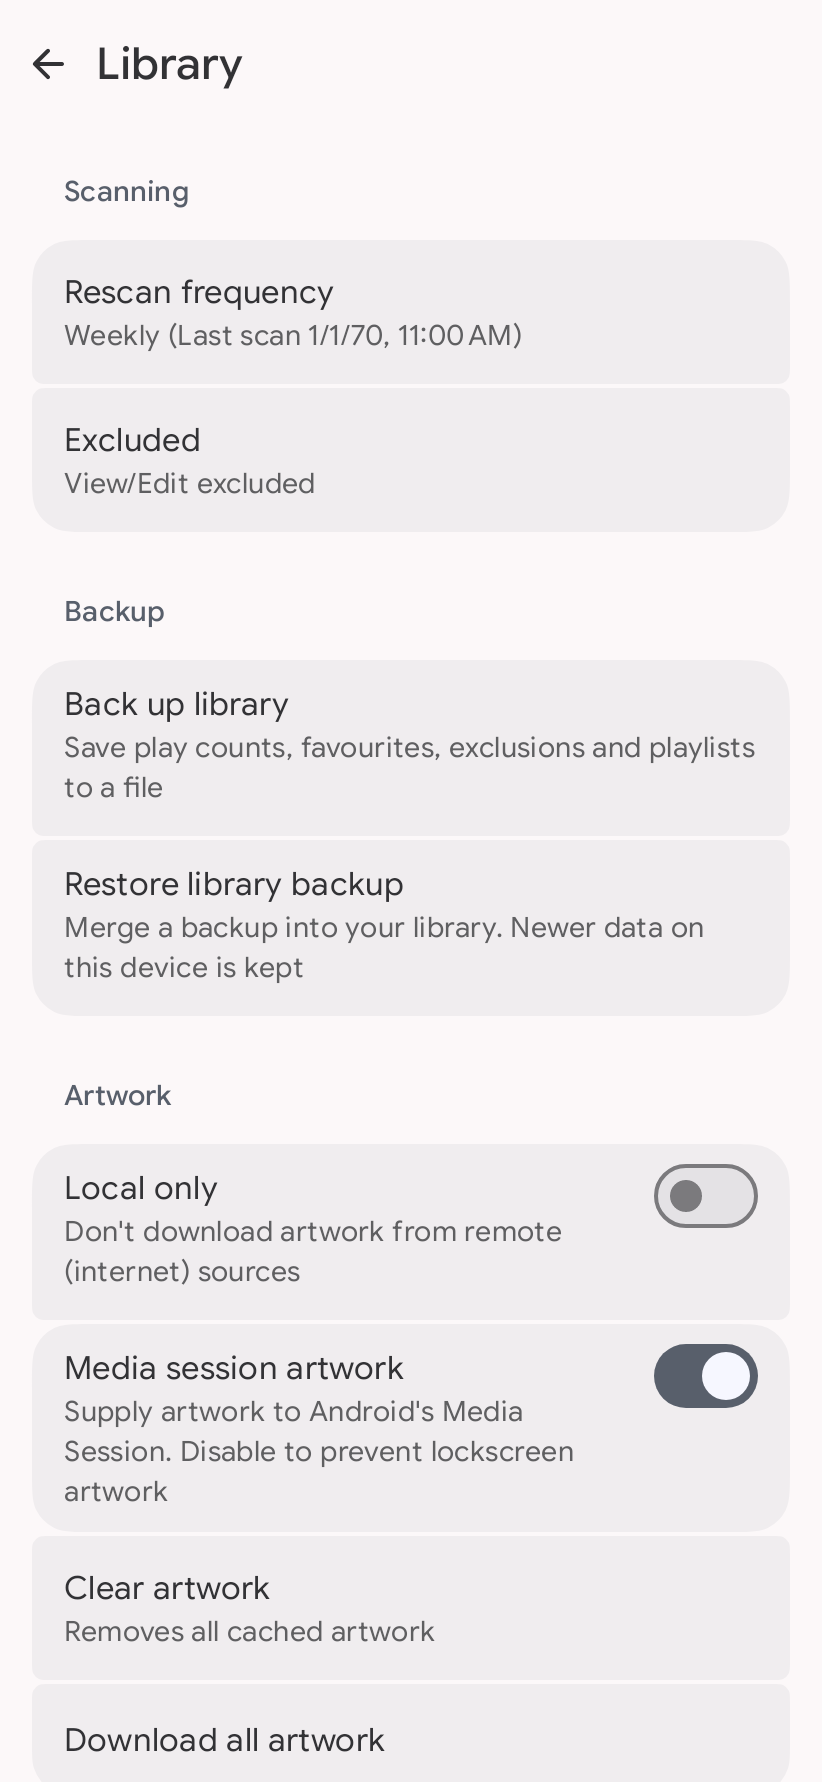
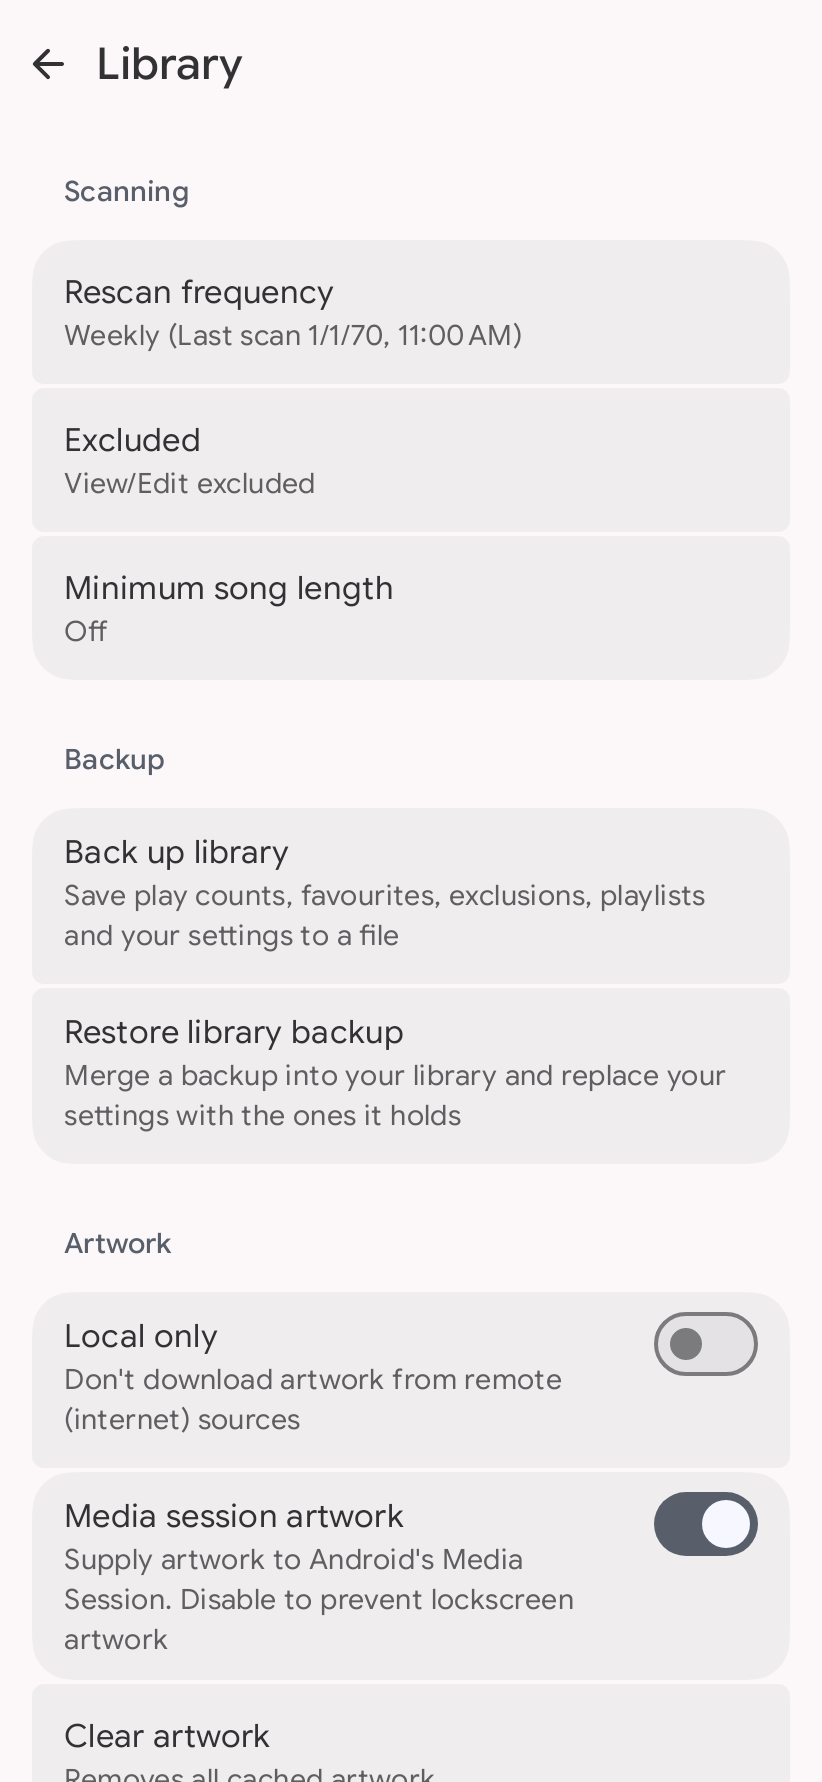
feat(library): hide songs under a minimum track length (#769)
Off, 10 s, 30 s or 60 s, applied in the song, album and artist repositories so
every list, search, shuffle and Android Auto agree. Playlists and id lookups
still resolve short songs. Also moves the backup manager and BackedUpSettings
out of ui/ to satisfy ui-module-imports without growing its baseline.

diff --git a/android/mediaprovider/local/src/androidHostTest/kotlin/com/simplecityapps/localmediaprovider/local/repository/LocalSongRepositoryTest.kt b/android/mediaprovider/local/src/androidHostTest/kotlin/com/simplecityapps/localmediaprovider/local/repository/LocalSongRepositoryTest.kt
@@ -11,7 +11,10 @@ import com.simplecityapps.localmediaprovider.local.data.room.database.trackingId
 import com.simplecityapps.localmediaprovider.local.data.room.entity.SONG_IDENTITY_QUERY
 import com.simplecityapps.localmediaprovider.local.data.room.entity.SongData
 import com.simplecityapps.mediaprovider.SongDiff
+import com.simplecityapps.mediaprovider.repository.albums.AlbumQuery
+import com.simplecityapps.mediaprovider.repository.artists.AlbumArtistQuery
 import com.simplecityapps.shuttle.model.MediaProviderType
+import com.simplecityapps.shuttle.model.MinTrackLength
 import com.simplecityapps.shuttle.model.Song
 import com.simplecityapps.shuttle.query.SongQuery
 import com.simplecityapps.shuttle.sorting.SongSortOrder
@@ -23,8 +26,11 @@ import java.util.concurrent.Executor
 import kotlin.time.Clock
 import kotlin.time.Duration.Companion.days
 import kotlin.time.Instant
+import kotlinx.coroutines.flow.MutableStateFlow
 import kotlinx.coroutines.flow.filterNotNull
 import kotlinx.coroutines.flow.first
+import kotlinx.coroutines.flow.map
+import kotlinx.coroutines.flow.onEach
 import kotlinx.coroutines.flow.toList
 import kotlinx.coroutines.launch
 import kotlinx.coroutines.test.UnconfinedTestDispatcher
@@ -296,14 +302,67 @@ class LocalSongRepositoryTest {
         return database.songDataDao().get().map { songData -> songData.toSong() }.sortedBy(Song::id)
     }
 
+    @Test
+    fun `a minimum track length hides shorter songs from queries and keeps one exactly that long`() = runTest {
+        val minimum = MutableStateFlow(MinTrackLength.ThirtySeconds)
+        val repository = LocalSongRepository(backgroundScope, database.songDataDao(), database.libraryAlbumIndex(), minimum)
+        database.songDataDao().insert(listOf(songData("Short", duration = 29_999), songData("Exact", duration = 30_000), songData("Long", duration = 200_000), songData("Unknown", duration = 0)))
+
+        repository.loadSongs(SongQuery.All()).map(Song::name) shouldContainExactlyInAnyOrder listOf("Exact", "Long", "Unknown")
+        repository.getSongs(SongQuery.All()).filterNotNull().first().map(Song::name) shouldContainExactlyInAnyOrder listOf("Exact", "Long", "Unknown")
+        repository.loadSongs(SongQuery.Search("Short")) shouldBe emptyList()
+    }
+
+    @Test
+    fun `changing the minimum track length re-emits the library`() = runTest {
+        val minimum = MutableStateFlow(MinTrackLength.Off)
+        val repository = LocalSongRepository(backgroundScope, database.songDataDao(), database.libraryAlbumIndex(), minimum)
+        database.songDataDao().insert(listOf(songData("Short", duration = 5_000), songData("Long", duration = 200_000)))
+        val seen = mutableListOf<List<String?>>()
+
+        val afterChange = repository.getSongs(SongQuery.All())
+            .filterNotNull()
+            .map { songs -> songs.map(Song::name) }
+            .onEach { names ->
+                seen.add(names)
+                minimum.value = MinTrackLength.TenSeconds
+            }
+            .first { names -> "Short" !in names }
+
+        seen.first() shouldContainExactlyInAnyOrder listOf("Short", "Long")
+        afterChange shouldBe listOf("Long")
+    }
+
+    @Test
+    fun `songs asked for by id are kept however short, so playlists and the queue still hold them`() = runTest {
+        val repository = LocalSongRepository(backgroundScope, database.songDataDao(), database.libraryAlbumIndex(), MutableStateFlow(MinTrackLength.SixtySeconds))
+        database.songDataDao().insert(listOf(songData("Short", duration = 5_000)))
+        val short = database.songDataDao().get().single().toSong()
+
+        repository.loadSongs(SongQuery.SongIds(listOf(short.id))).map(Song::name) shouldBe listOf("Short")
+        repository.getSongs(SongQuery.SongIds(listOf(short.id))).first().orEmpty().map(Song::name) shouldBe listOf("Short")
+    }
+
+    @Test
+    fun `albums and album artists are built from the songs that pass the minimum`() = runTest {
+        val minimum = MutableStateFlow(MinTrackLength.SixtySeconds)
+        val albums = LocalAlbumRepository(backgroundScope, database.songDataDao(), minimum)
+        val artists = LocalAlbumArtistRepository(backgroundScope, database.songDataDao(), minimum)
+        database.songDataDao().insert(listOf(songData("Ringtone", "Voice", duration = 4_000), songData("Song", "Band", duration = 240_000)))
+
+        albums.getAlbums(AlbumQuery.All()).first().map { album -> album.albumArtist } shouldBe listOf("Band")
+        artists.getAlbumArtists(AlbumArtistQuery.All()).first().map { artist -> artist.name } shouldBe listOf("Band")
+    }
+
     private fun songData(
         name: String,
-        artist: String = "Artist"
+        artist: String = "Artist",
+        duration: Int = 180_000
     ) = SongData(
         name = name,
         track = 1,
         disc = 1,
-        duration = 180_000,
+        duration = duration,
         year = null,
         genres = emptyList(),
         path = "/music/$name.mp3",

diff --git a/android/mediaprovider/local/src/commonMain/kotlin/com/simplecityapps/localmediaprovider/local/repository/LocalSongRepository.kt b/android/mediaprovider/local/src/commonMain/kotlin/com/simplecityapps/localmediaprovider/local/repository/LocalSongRepository.kt
@@ -10,6 +10,7 @@ import com.simplecityapps.mediaprovider.repository.songs.comparator
 import com.simplecityapps.shuttle.logging.Logger
 import com.simplecityapps.shuttle.model.AlbumIndex
 import com.simplecityapps.shuttle.model.MediaProviderType
+import com.simplecityapps.shuttle.model.MinTrackLength
 import com.simplecityapps.shuttle.model.Song
 import com.simplecityapps.shuttle.model.withAlbumIdentities
 import com.simplecityapps.shuttle.query.SongQuery
@@ -24,6 +25,7 @@ import kotlinx.coroutines.flow.StateFlow
 import kotlinx.coroutines.flow.asSharedFlow
 import kotlinx.coroutines.flow.combine
 import kotlinx.coroutines.flow.distinctUntilChanged
+import kotlinx.coroutines.flow.first
 import kotlinx.coroutines.flow.flowOf
 import kotlinx.coroutines.flow.flowOn
 import kotlinx.coroutines.flow.map
@@ -33,7 +35,9 @@ import kotlinx.coroutines.withContext
 class LocalSongRepository(
     val scope: CoroutineScope,
     private val songDataDao: SongDataDao,
-    private val albumIndex: LibraryAlbumIndex
+    private val albumIndex: LibraryAlbumIndex,
+    /** Songs shorter than this are left out of every query but a lookup by id; a change re-emits [getSongs]. */
+    private val minTrackLength: Flow<MinTrackLength> = flowOf(MinTrackLength.Off)
 ) : SongRepository {
     private val songsRelay: StateFlow<List<Song>?> by lazy {
         songDataDao
@@ -50,7 +54,8 @@ class LocalSongRepository(
     /**
      * Songs by id (a restored queue, a song a controller names) are read by id, so the cost is bounded by how many are
      * asked for rather than by the library, and come in no particular order, as their callers look them up by id;
-     * every other query filters the whole library, in the query's sort order.
+     * every other query filters the whole library, in the query's sort order, and leaves out songs under the
+     * [minTrackLength] (a lookup by id is for songs something already holds, a playlist's or the queue's, so it keeps them).
      */
     override fun getSongs(query: SongQuery): Flow<List<Song>?> {
         val songs: Flow<List<Song>?> =
@@ -59,7 +64,7 @@ class LocalSongRepository(
             } else if (query is SongQuery.SongIds) {
                 combine(songDataDao.getByIds(query.songIds), albumIndex.updates) { found, index -> found.withAlbumIdentities(index.identities) }.flowOn(Dispatchers.IO)
             } else {
-                songsRelay.map { songs -> songs?.filter(query.predicate)?.sortedWith(query.sortOrder.comparator) }
+                combine(songsRelay, minTrackLength) { songs, min -> songs?.filter(min::keeps)?.filter(query.predicate)?.sortedWith(query.sortOrder.comparator) }
             }
         return songs.map { result -> result?.matching(query) }
     }
@@ -72,8 +77,10 @@ class LocalSongRepository(
     override suspend fun loadSongs(query: SongQuery): List<Song> = withContext(Dispatchers.IO) {
         val index = albumIndex.albumIndex()
         val songs = index.songIdsFor(query)?.let { ids -> songDataDao.loadByIds(ids) } ?: songDataDao.get().map { songData -> songData.toSong() }
+        val min = if (query is SongQuery.SongIds) MinTrackLength.Off else minTrackLength.first()
         songs
             .withAlbumIdentities(index.identities)
+            .filter(min::keeps)
             .filter(query.predicate)
             .sortedWith(query.sortOrder.comparator)
             .matching(query)

diff --git a/android/mediaprovider/local/src/commonMain/kotlin/com/simplecityapps/localmediaprovider/local/di/LibraryModule.kt b/android/mediaprovider/local/src/commonMain/kotlin/com/simplecityapps/localmediaprovider/local/di/LibraryModule.kt
@@ -25,6 +25,7 @@ import com.simplecityapps.mediaprovider.repository.playlists.PlaylistRepository
 import com.simplecityapps.mediaprovider.repository.smartplaylists.SmartPlaylistRepository
 import com.simplecityapps.mediaprovider.repository.songs.SongRepository
 import com.simplecityapps.mediaprovider.repository.suggestions.SuggestionsRepository
+import com.simplecityapps.mediaprovider.settings.LibrarySettings
 import com.simplecityapps.shuttle.di.AppCoroutineScope
 import com.simplecityapps.shuttle.model.AlbumIndexProvider
 import com.simplecityapps.shuttle.persistence.GeneralPreferenceManager
@@ -69,8 +70,9 @@ abstract class LibraryModule {
         fun provideSongRepository(
             database: MediaDatabase,
             @AppCoroutineScope appCoroutineScope: CoroutineScope,
-            albumIndex: LibraryAlbumIndex
-        ): SongRepository = LocalSongRepository(appCoroutineScope, database.songDataDao(), albumIndex)
+            albumIndex: LibraryAlbumIndex,
+            librarySettings: LibrarySettings
+        ): SongRepository = LocalSongRepository(appCoroutineScope, database.songDataDao(), albumIndex, librarySettings.minTrackLength.flow)
 
         @Provides
         @SingleIn(AppScope::class)
@@ -89,15 +91,17 @@ abstract class LibraryModule {
         @SingleIn(AppScope::class)
         fun provideAlbumRepository(
             database: MediaDatabase,
-            @AppCoroutineScope appCoroutineScope: CoroutineScope
-        ): AlbumRepository = LocalAlbumRepository(appCoroutineScope, database.songDataDao())
+            @AppCoroutineScope appCoroutineScope: CoroutineScope,
+            librarySettings: LibrarySettings
+        ): AlbumRepository = LocalAlbumRepository(appCoroutineScope, database.songDataDao(), librarySettings.minTrackLength.flow)
 
         @Provides
         @SingleIn(AppScope::class)
         fun provideAlbumArtistRepository(
             database: MediaDatabase,
-            @AppCoroutineScope appCoroutineScope: CoroutineScope
-        ): AlbumArtistRepository = LocalAlbumArtistRepository(appCoroutineScope, database.songDataDao())
+            @AppCoroutineScope appCoroutineScope: CoroutineScope,
+            librarySettings: LibrarySettings
+        ): AlbumArtistRepository = LocalAlbumArtistRepository(appCoroutineScope, database.songDataDao(), librarySettings.minTrackLength.flow)
 
         @Provides
         @SingleIn(AppScope::class)

diff --git a/android/app/src/main/java/com/simplecityapps/shuttle/ui/screens/settings/model/AndroidSettingsCatalog.kt b/android/app/src/main/java/com/simplecityapps/shuttle/ui/screens/settings/model/AndroidSettingsCatalog.kt
@@ -8,6 +8,7 @@ import com.simplecityapps.playback.dsp.replaygain.ReplayGainMode
 import com.simplecityapps.playback.settings.PlaybackSettings
 import com.simplecityapps.shuttle.BuildConfig
 import com.simplecityapps.shuttle.downloads.DownloadSettings
+import com.simplecityapps.shuttle.model.MinTrackLength
 import com.simplecityapps.shuttle.settings.Accent
 import com.simplecityapps.shuttle.settings.AppearanceSettings
 import com.simplecityapps.shuttle.settings.ArtworkSettings
@@ -214,6 +215,17 @@ object AndroidSettingsCatalog : SettingsCatalog {
                         title = StringKey.PREF_EXCLUDE_TITLE,
                         summary = StringKey.PREF_EXCLUDE_SUMMARY,
                         key = "pref_excluded"
+                    ),
+                    SettingItem.Choice(
+                        setting = LibrarySettings.MinTrackLength,
+                        title = StringKey.PREF_MIN_TRACK_LENGTH_TITLE,
+                        summary = StringKey.PREF_MIN_TRACK_LENGTH_SUMMARY,
+                        options = listOf(
+                            ChoiceOption(MinTrackLength.Off, StringKey.PREF_MIN_TRACK_LENGTH_OFF),
+                            ChoiceOption(MinTrackLength.TenSeconds, StringKey.PREF_MIN_TRACK_LENGTH_10_SECONDS),
+                            ChoiceOption(MinTrackLength.ThirtySeconds, StringKey.PREF_MIN_TRACK_LENGTH_30_SECONDS),
+                            ChoiceOption(MinTrackLength.SixtySeconds, StringKey.PREF_MIN_TRACK_LENGTH_60_SECONDS)
+                        )
                     )
                 )
             ),

diff --git a/android/mediaprovider/local/src/commonMain/kotlin/com/simplecityapps/localmediaprovider/local/repository/LocalAlbumArtistRepository.kt b/android/mediaprovider/local/src/commonMain/kotlin/com/simplecityapps/localmediaprovider/local/repository/LocalAlbumArtistRepository.kt
@@ -5,21 +5,27 @@ import com.simplecityapps.mediaprovider.repository.artists.AlbumArtistQuery
 import com.simplecityapps.mediaprovider.repository.artists.AlbumArtistRepository
 import com.simplecityapps.mediaprovider.repository.artists.comparator
 import com.simplecityapps.shuttle.model.AlbumArtist
+import com.simplecityapps.shuttle.model.MinTrackLength
 import kotlinx.coroutines.CoroutineScope
 import kotlinx.coroutines.Dispatchers
 import kotlinx.coroutines.IO
 import kotlinx.coroutines.flow.Flow
 import kotlinx.coroutines.flow.SharingStarted
 import kotlinx.coroutines.flow.StateFlow
+import kotlinx.coroutines.flow.combine
 import kotlinx.coroutines.flow.filterNotNull
+import kotlinx.coroutines.flow.flowOf
 import kotlinx.coroutines.flow.flowOn
 import kotlinx.coroutines.flow.map
 import kotlinx.coroutines.flow.stateIn
 
-class LocalAlbumArtistRepository(val scope: CoroutineScope, private val songDataDao: SongDataDao) : AlbumArtistRepository {
+class LocalAlbumArtistRepository(
+    val scope: CoroutineScope,
+    private val songDataDao: SongDataDao,
+    private val minTrackLength: Flow<MinTrackLength> = flowOf(MinTrackLength.Off)
+) : AlbumArtistRepository {
     private val albumArtistsRelay: StateFlow<List<AlbumArtist>?> by lazy {
-        songDataDao
-            .getAll()
+        combine(songDataDao.getAll(), minTrackLength) { songs, min -> songs.filter(min::keeps) }
             .map { songs -> songs.toArtists() }
             .flowOn(Dispatchers.IO)
             .stateIn(scope, SharingStarted.Lazily, null)

diff --git a/android/mediaprovider/local/src/commonMain/kotlin/com/simplecityapps/localmediaprovider/local/repository/LocalAlbumRepository.kt b/android/mediaprovider/local/src/commonMain/kotlin/com/simplecityapps/localmediaprovider/local/repository/LocalAlbumRepository.kt
@@ -5,6 +5,7 @@ import com.simplecityapps.mediaprovider.repository.albums.AlbumQuery
 import com.simplecityapps.mediaprovider.repository.albums.AlbumRepository
 import com.simplecityapps.mediaprovider.repository.albums.comparator
 import com.simplecityapps.shuttle.model.Album
+import com.simplecityapps.shuttle.model.MinTrackLength
 import kotlin.random.Random
 import kotlinx.coroutines.CoroutineScope
 import kotlinx.coroutines.Dispatchers
@@ -12,20 +13,21 @@ import kotlinx.coroutines.IO
 import kotlinx.coroutines.flow.Flow
 import kotlinx.coroutines.flow.SharingStarted
 import kotlinx.coroutines.flow.StateFlow
+import kotlinx.coroutines.flow.combine
 import kotlinx.coroutines.flow.distinctUntilChanged
 import kotlinx.coroutines.flow.filterNotNull
+import kotlinx.coroutines.flow.flowOf
 import kotlinx.coroutines.flow.flowOn
 import kotlinx.coroutines.flow.map
 import kotlinx.coroutines.flow.stateIn
 
 class LocalAlbumRepository(
     private val scope: CoroutineScope,
-    private val songDataDao: SongDataDao
+    private val songDataDao: SongDataDao,
+    private val minTrackLength: Flow<MinTrackLength> = flowOf(MinTrackLength.Off)
 ) : AlbumRepository {
     private val albumsRelay: StateFlow<List<Album>?> by lazy {
-        songDataDao
-            .getAll()
-            .distinctUntilChanged()
+        combine(songDataDao.getAll().distinctUntilChanged(), minTrackLength) { songs, min -> songs.filter(min::keeps) }
             .map { songs ->
                 songs
                     .groupBy { it.albumGroupKey }

diff --git a/android/mediaprovider/core/src/commonMain/kotlin/com/simplecityapps/mediaprovider/settings/LibrarySettings.kt b/android/mediaprovider/core/src/commonMain/kotlin/com/simplecityapps/mediaprovider/settings/LibrarySettings.kt
@@ -1,6 +1,7 @@
 package com.simplecityapps.mediaprovider.settings
 
 import com.simplecityapps.mediaprovider.worker.ImportFrequency
+import com.simplecityapps.shuttle.model.MinTrackLength
 import com.simplecityapps.shuttle.settings.Setting
 import com.simplecityapps.shuttle.settings.SettingsStore
 import dev.zacsweers.metro.AppScope
@@ -14,6 +15,7 @@ class LibrarySettings @Inject constructor(
 ) {
     val rescanFrequency = store.preference(RescanFrequency)
     val reportPlaybackToServer = store.preference(ReportPlaybackToServer)
+    val minTrackLength = store.preference(MinTrackLength)
 
     companion object {
         /** Stored as [ImportFrequency.value] in a string, as the ListPreference wrote it. */
@@ -22,6 +24,14 @@ class LibrarySettings @Inject constructor(
             default = ImportFrequency.Never,
             decode = { value -> ImportFrequency.entries.firstOrNull { it.value.toString() == value } },
             encode = { frequency -> frequency.value.toString() }
+        )
+
+        /** Stored by name, so lengths can be added anywhere in the list. */
+        val MinTrackLength = Setting.string(
+            key = "pref_min_track_length",
+            default = com.simplecityapps.shuttle.model.MinTrackLength.Off,
+            decode = { value -> com.simplecityapps.shuttle.model.MinTrackLength.entries.firstOrNull { it.name == value } },
+            encode = { length -> length.name }
         )
 
         /** Report what's playing to Jellyfin, Emby and Plex, all three. */

diff --git a/android/app/src/main/java/com/simplecityapps/shuttle/backup/LibraryBackupManager.kt b/android/app/src/main/java/com/simplecityapps/shuttle/backup/LibraryBackupManager.kt
@@ -1,4 +1,4 @@
-package com.simplecityapps.shuttle.ui.screens.settings.backup
+package com.simplecityapps.shuttle.backup
 
 import android.content.Context
 import android.net.Uri
@@ -10,9 +10,17 @@ import com.simplecityapps.shuttle.di.ApplicationContext
 import com.simplecityapps.shuttle.di.IoDispatcher
 import com.simplecityapps.shuttle.model.Song
 import com.simplecityapps.shuttle.persistence.KeyValueStore
-import com.simplecityapps.shuttle.settings.Setting
 import com.simplecityapps.shuttle.query.SongQuery
+import com.simplecityapps.shuttle.settings.Setting
 import com.simplecityapps.shuttle.ui.screens.settings.SettingsEffects
+import com.simplecityapps.shuttle.ui.screens.settings.backup.BackedUpPlaylist
+import com.simplecityapps.shuttle.ui.screens.settings.backup.BackedUpSong
+import com.simplecityapps.shuttle.ui.screens.settings.backup.LibraryBackup
+import com.simplecityapps.shuttle.ui.screens.settings.backup.LibraryBackupFlow
+import com.simplecityapps.shuttle.ui.screens.settings.backup.LibraryBackupMatcher
+import com.simplecityapps.shuttle.ui.screens.settings.backup.LibraryBackupRestorer
+import com.simplecityapps.shuttle.ui.screens.settings.backup.RestoreReport
+import com.simplecityapps.shuttle.ui.screens.settings.backup.SongIdentity
 import dev.zacsweers.metro.Inject
 import java.io.FilterInputStream
 import java.io.IOException

diff --git a/android/app/src/main/java/com/simplecityapps/shuttle/ui/text/UiTextResources.kt b/android/app/src/main/java/com/simplecityapps/shuttle/ui/text/UiTextResources.kt
@@ -133,6 +133,12 @@ val StringKey.resId: Int
         StringKey.PREF_RESCAN_FREQUENCY_WEEKLY -> R.string.pref_rescan_frequency_weekly
         StringKey.PREF_EXCLUDE_TITLE -> R.string.pref_exclude_title
         StringKey.PREF_EXCLUDE_SUMMARY -> R.string.pref_exclude_summary
+        StringKey.PREF_MIN_TRACK_LENGTH_TITLE -> R.string.pref_min_track_length_title
+        StringKey.PREF_MIN_TRACK_LENGTH_SUMMARY -> R.string.pref_min_track_length_summary
+        StringKey.PREF_MIN_TRACK_LENGTH_OFF -> R.string.pref_min_track_length_off
+        StringKey.PREF_MIN_TRACK_LENGTH_10_SECONDS -> R.string.pref_min_track_length_10_seconds
+        StringKey.PREF_MIN_TRACK_LENGTH_30_SECONDS -> R.string.pref_min_track_length_30_seconds
+        StringKey.PREF_MIN_TRACK_LENGTH_60_SECONDS -> R.string.pref_min_track_length_60_seconds
         StringKey.PREF_CATEGORY_TITLE_ARTWORK -> R.string.pref_category_title_artwork
         StringKey.PREF_CATEGORY_TITLE_BACKUP -> R.string.pref_category_title_backup
         StringKey.PREF_ARTWORK_WIFI_TITLE -> R.string.pref_artwork_wifi_title

diff --git a/android/app/src/main/java/com/simplecityapps/shuttle/di/AppBindsModule.kt b/android/app/src/main/java/com/simplecityapps/shuttle/di/AppBindsModule.kt
@@ -13,11 +13,11 @@ import com.simplecityapps.shuttle.appinitializers.ShortcutInitializer
 import com.simplecityapps.shuttle.appinitializers.TelemetryInitializer
 import com.simplecityapps.shuttle.appinitializers.TimberInitializer
 import com.simplecityapps.shuttle.appinitializers.WidgetInitializer
+import com.simplecityapps.shuttle.backup.LibraryBackupManager
 import com.simplecityapps.shuttle.entitlement.EntitledServerStreamPolicy
 import com.simplecityapps.shuttle.sources.DefaultMediaSources
 import com.simplecityapps.shuttle.sources.SafScannerFolderStore
 import com.simplecityapps.shuttle.ui.screens.settings.backup.LibraryBackupFlow
-import com.simplecityapps.shuttle.ui.screens.settings.backup.LibraryBackupManager
 import com.simplecityapps.shuttle.ui.screens.sources.MediaSources
 import com.simplecityapps.shuttle.ui.screens.sources.ScannerFolderStore
 import dev.zacsweers.metro.AppScope

diff --git a/android/app/src/test/java/com/simplecityapps/shuttle/backup/BackedUpSettingsTest.kt b/android/app/src/test/java/com/simplecityapps/shuttle/backup/BackedUpSettingsTest.kt
@@ -1,11 +1,12 @@
-package com.simplecityapps.shuttle.ui.screens.settings.backup
+package com.simplecityapps.shuttle.backup
 
 import com.simplecityapps.playback.settings.PlaybackSettings
 import com.simplecityapps.shuttle.persistence.InMemoryKeyValueStore
+import com.simplecityapps.shuttle.settings.Accent
 import com.simplecityapps.shuttle.settings.AppearanceSettings
 import com.simplecityapps.shuttle.settings.EqualizerSettings
-import com.simplecityapps.shuttle.settings.Accent
 import com.simplecityapps.shuttle.settings.ThemeMode
+import com.simplecityapps.shuttle.ui.screens.settings.backup.LibraryBackup
 import io.kotest.matchers.maps.shouldContainKey
 import io.kotest.matchers.maps.shouldNotContainKey
 import io.kotest.matchers.shouldBe

diff --git a/android/app/src/test/java/com/simplecityapps/shuttle/settings/SettingKeysTest.kt b/android/app/src/test/java/com/simplecityapps/shuttle/settings/SettingKeysTest.kt
@@ -64,6 +64,7 @@ class SettingKeysTest {
             "SourcesSettings.IncludedFolders: scanner_included_folders = []",
             "SourcesSettings.IncludedFoldersMigrated: scanner_included_folders_migrated = false",
             "LibrarySettings.RescanFrequency: pref_media_rescan_frequency = Never",
+            "LibrarySettings.MinTrackLength: pref_min_track_length = Off",
             "LibrarySettings.ReportPlaybackToServer: pref_report_playback = true",
             "PlaybackSettings.RetainShuffleOnNewQueue: pref_retain_shuffle_on_new_queue = false",
             "PlaybackSettings.UsbDacDirectOutput: pref_bit_perfect_usb = false",
